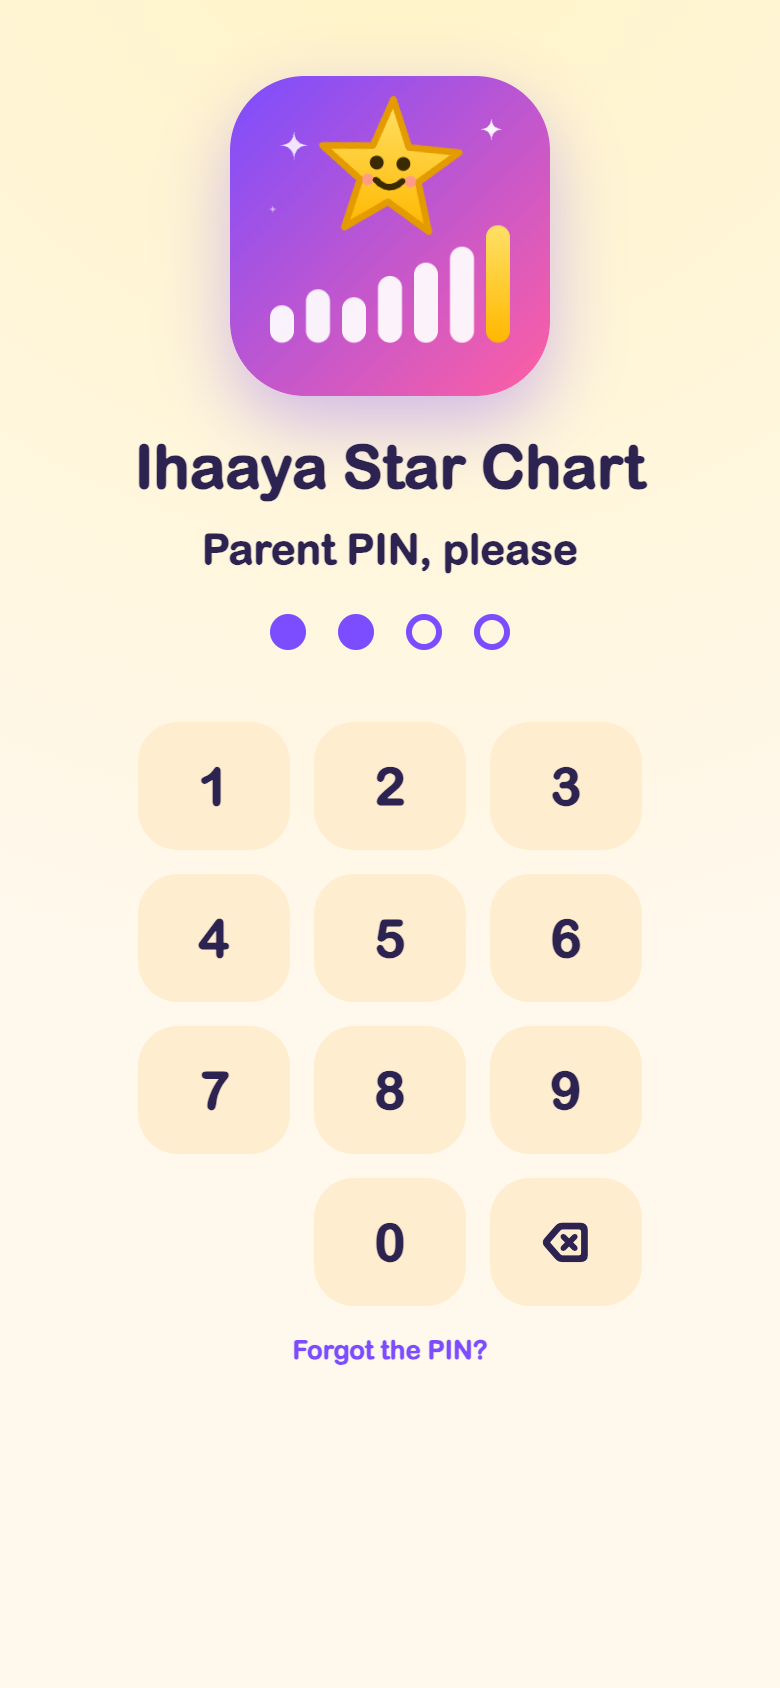
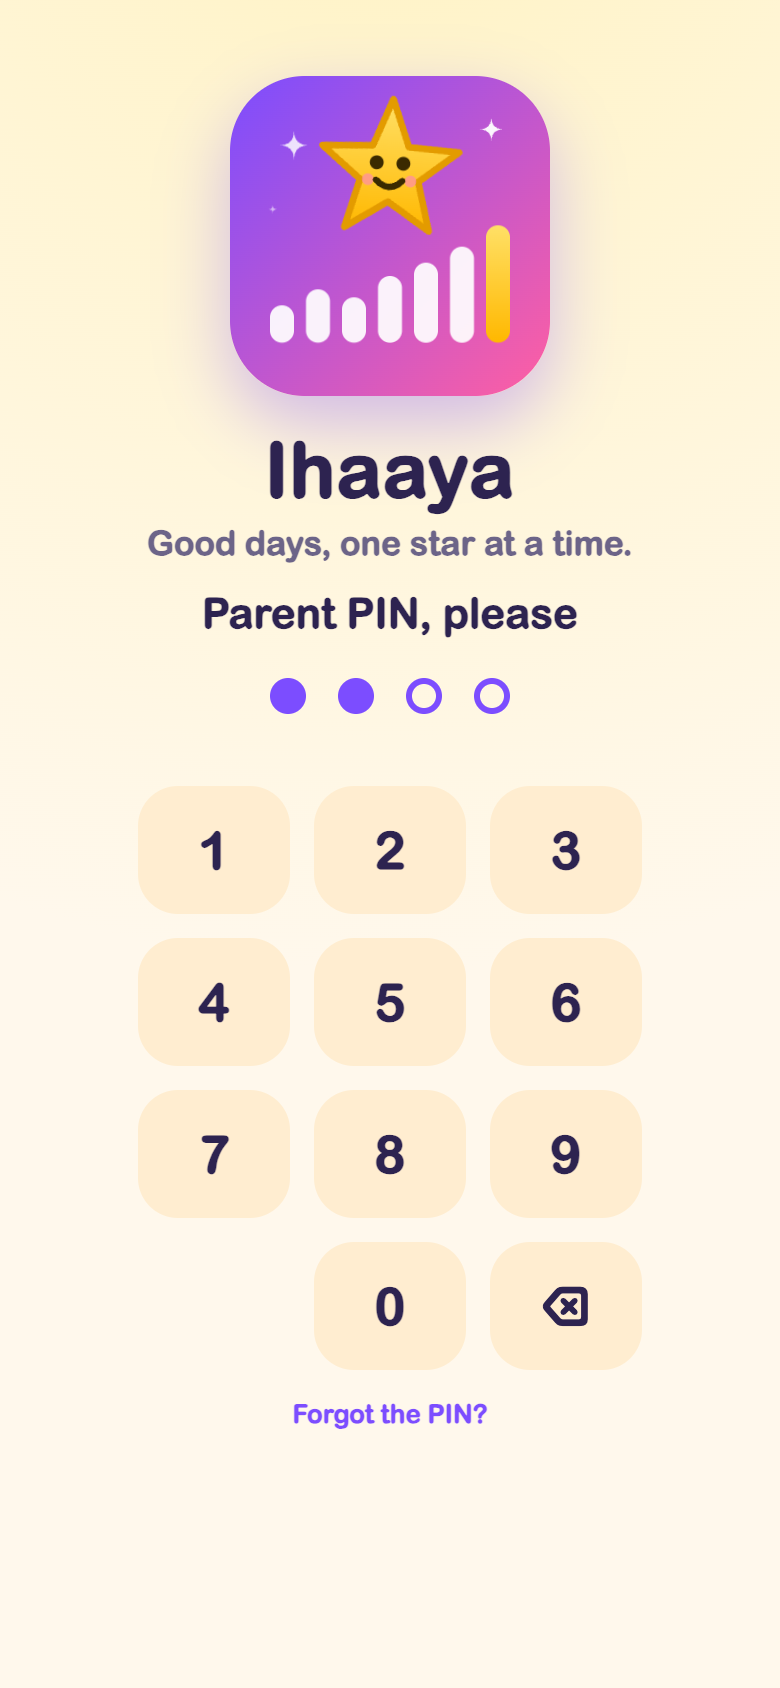
Name the app Ihaaya, with the tagline 'Good days, one star at a time.'
The opening screen shows 'Ihaaya' under the logo with the tagline below
it; the page title, Home Screen name, manifest and README use the same
name, and the first screenshot is retaken. The offline copy moves to
cache v4 so phones pick up the new screen.

Claude-Session: https://claude.ai/code/session_014vae1bAMibQ3kmH7S1GqhQ

Changed region(s): [[0.3692, 0.4313, 0.8308, 0.8626], [0.1538, 0.2464, 0.8308, 0.4313], [0.1538, 0.4621, 0.3692, 0.7393]]

diff --git a/index.html b/index.html
@@ -10,7 +10,7 @@
 <meta name="apple-mobile-web-app-title" content="Ihaaya">
 <link rel="apple-touch-icon" href="icon-180.png">
 <link rel="manifest" href="manifest.webmanifest">
-<title>Ihaaya Star Chart</title>
+<title>Ihaaya</title>
 <link rel="icon" href="logo.svg" type="image/svg+xml">
 <style>
 :root{
@@ -112,7 +112,8 @@ h1 .name{color:var(--accent)}
 .logo .lg-spark:nth-of-type(2){animation-delay:.6s}
 .logo .lg-spark:nth-of-type(3){animation-delay:1.2s}
 @keyframes twinkle{50%{transform:scale(.45);opacity:.55}}
-.ltitle{font-size:30px;margin:18px 0 2px;line-height:1.15}
+.ltitle{font-size:38px;margin:16px 0 0;line-height:1.1;letter-spacing:.5px}
+.ltag{margin:4px 0 6px;font-size:17px;font-weight:600;color:var(--muted)}
 .landpad{margin-top:10px}
 .landpad h2{font-size:21px;margin:10px 0 2px}
 .landpad .reportbtn{max-width:320px;margin:24px auto 0}
@@ -366,8 +367,9 @@ body{overscroll-behavior-y:none}
 <body>
 <div class="landing" id="landing">
   <div class="landin">
-    <div class="logo" id="landLogo" role="img" aria-label="Ihaaya Star Chart logo"></div>
-    <h1 class="ltitle">Ihaaya Star Chart</h1>
+    <div class="logo" id="landLogo" role="img" aria-label="Ihaaya logo"></div>
+    <h1 class="ltitle">Ihaaya</h1>
+    <p class="ltag">Good days, one star at a time.</p>
     <div class="landpad" id="landPad"></div>
   </div>
 </div>
@@ -902,7 +904,7 @@ function renderHeader() {
   const s = data.settings, n = allStars(), li = levelOf(n), L = LEVELS[li], next = LEVELS[li + 1];
   document.body.classList.toggle('words', store.prefs.words);
   $('#name').textContent = s.name;
-  document.title = 'Ihaaya Star Chart';
+  document.title = 'Ihaaya';
   $('#level').innerHTML = '<b>' + L[1] + ' ' + esc(L[2]) + '</b> · 🌟 ' + n +
     (next ? ' · ' + (next[0] - n) + ' more to ' + next[1] : ' · top level!');
 }

diff --git a/sw.js b/sw.js
@@ -1,7 +1,7 @@
-// Ihaaya Star Chart: keeps a copy of the app so the phone app opens without internet.
+// Ihaaya: keeps a copy of the app so the phone app opens without internet.
 // Network first (so a new version shows at once), the copy only when the network fails or is slow.
 // The children's stars are not here: they stay in the browser's own storage.
-const CACHE = 'ihaaya-v3';
+const CACHE = 'ihaaya-v4';
 const FILES = ['./', './index.html', './manifest.webmanifest', './logo.svg', './icon-180.png', './icon-192.png', './icon-512.png', './stories.json'];
 self.addEventListener('install', e => {
   e.waitUntil(caches.open(CACHE).then(c => c.addAll(FILES)).then(() => self.skipWaiting()));

diff --git a/README.md b/README.md
@@ -1,4 +1,6 @@
-# Ihaaya Star Chart
+# Ihaaya
+
+*Good days, one star at a time.*
 
 <p align="center">
   <img src="screenshots/1-landing.png" width="200" alt="Logo and parent PIN" />
